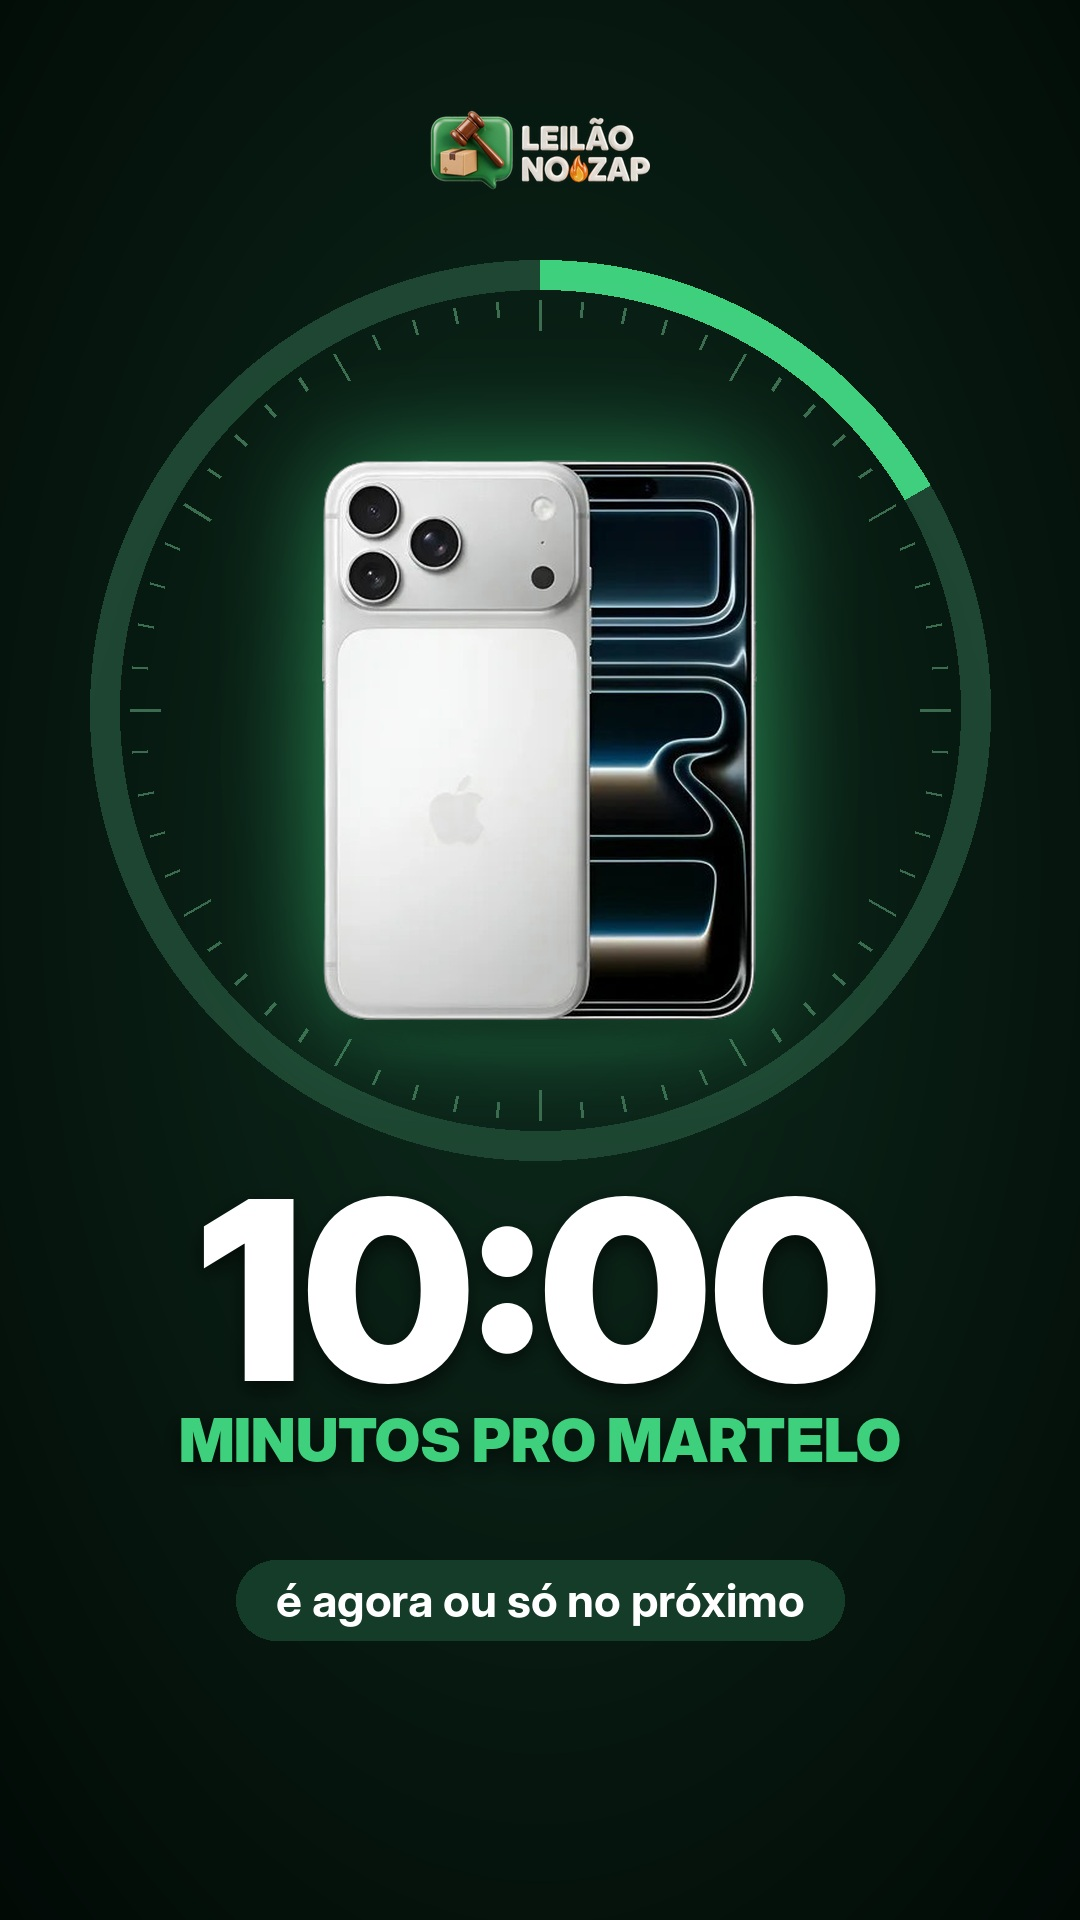
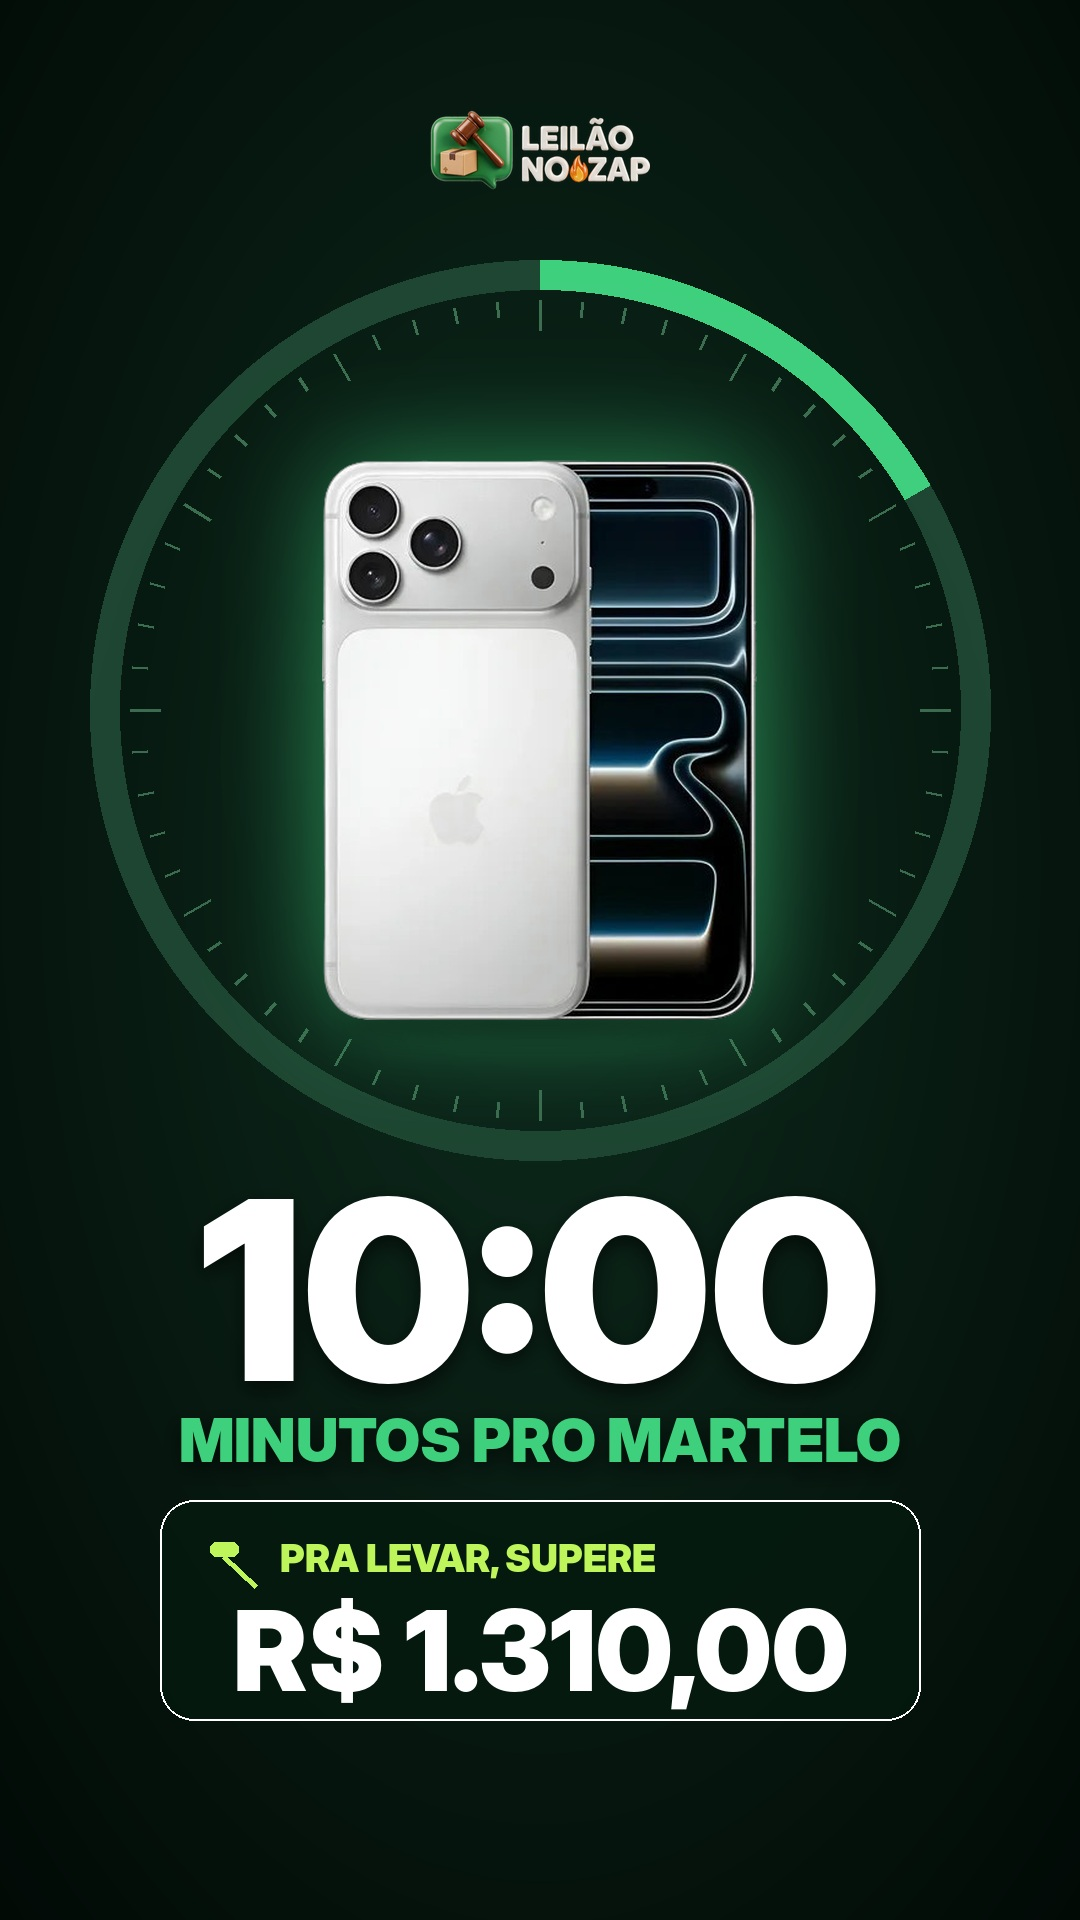
Arte 10 minutos iPhone com lance R$ 1.310
Claude-Session: https://claude.ai/code/session_01JihU9VfVTYTrMqQpApFEjH

Changed region(s): [[0.2139, 0.7812, 0.7944, 0.9062], [0.1833, 0.7812, 0.2139, 0.8125]]

diff --git a/marketing/semana-2026-10-28/fonte/campanha_iphone.py b/marketing/semana-2026-10-28/fonte/campanha_iphone.py
@@ -195,7 +195,7 @@ def s10():
         d.line((540 + r1 * math.cos(a), 710 + r1 * math.sin(a), 540 + r2 * math.cos(a), 710 + r2 * math.sin(a)), fill=(60, 110, 80), width=3)
     luz(b, 540, 760, 240, NEON, 90); poe(b, iph(560), 540, 1020, NEON, forca=120)
     T(b, (W / 2, 1290), '10:00', F('Black', 250), BR); T(b, (W / 2, 1440), 'MINUTOS PRO MARTELO', F('Black', 60), NEON)
-    pil(b, W / 2, 1600, 'é agora ou só no próximo', F('Bold', 46), (20, 60, 40), BR); sv(b, 'S10-19h50-faltam-10-minutos')
+    lance_card(b, W / 2, 1500, w=760, rot='PRA LEVAR, SUPERE'); sv(b, 'S10-19h50-faltam-10-minutos')
 
 # 11 · contagem — espaço para a figurinha de CONTAGEM REGRESSIVA do Instagram
 def s11():
